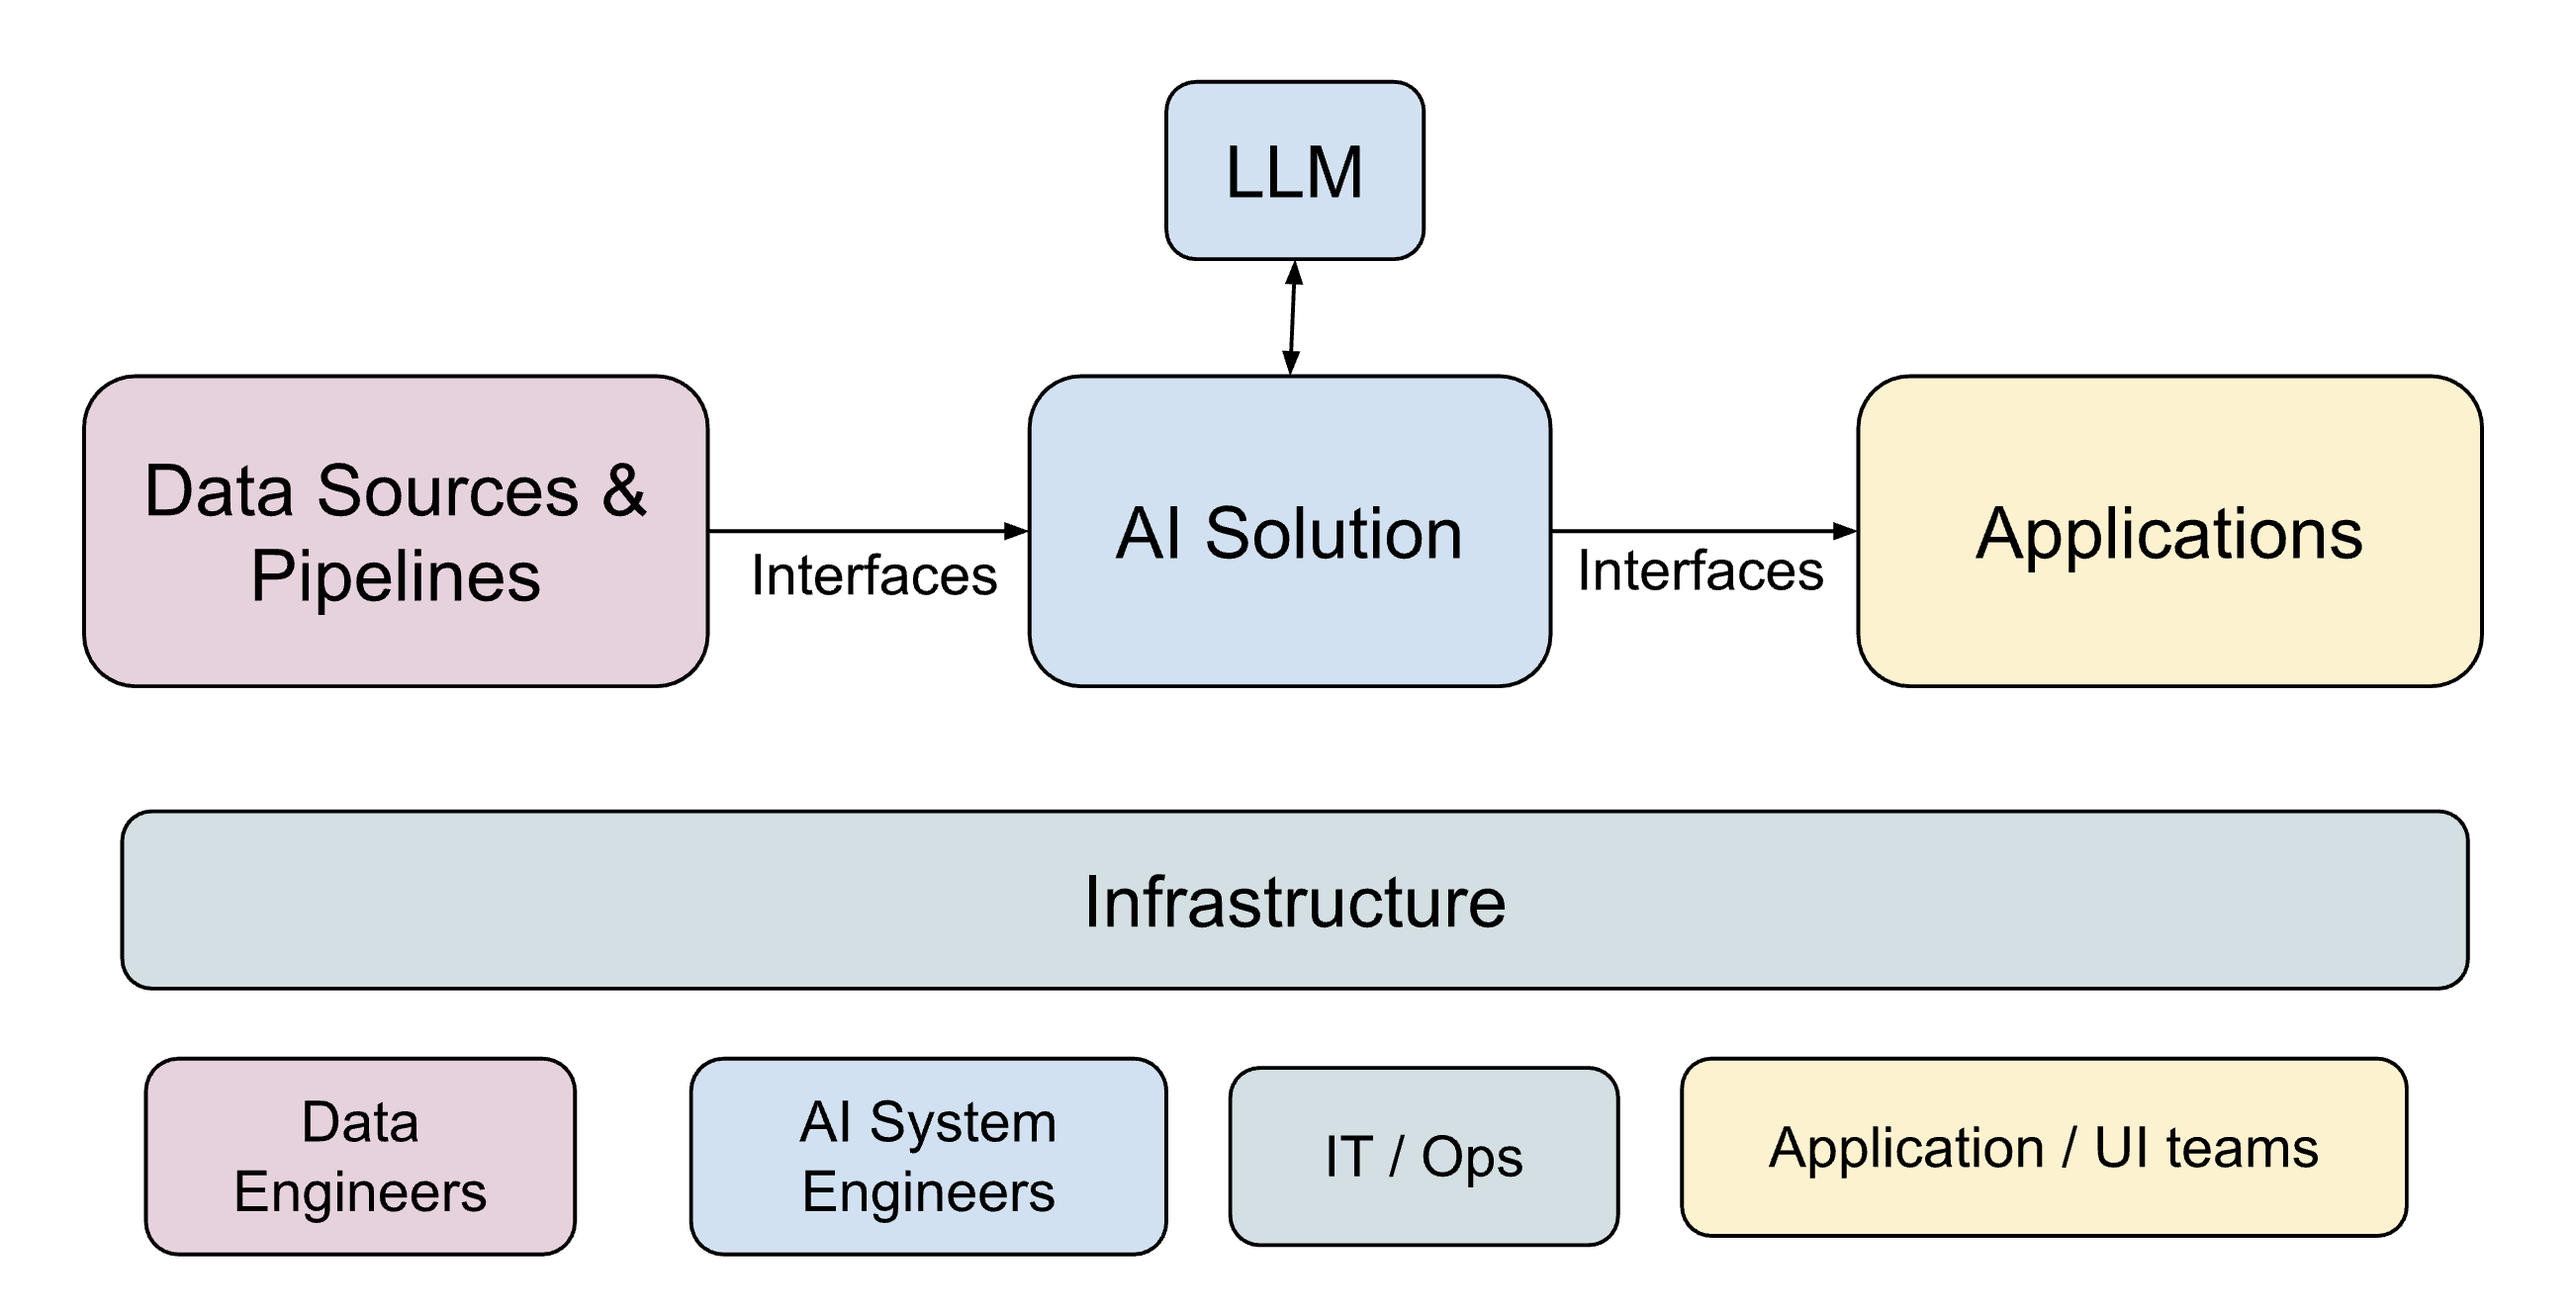
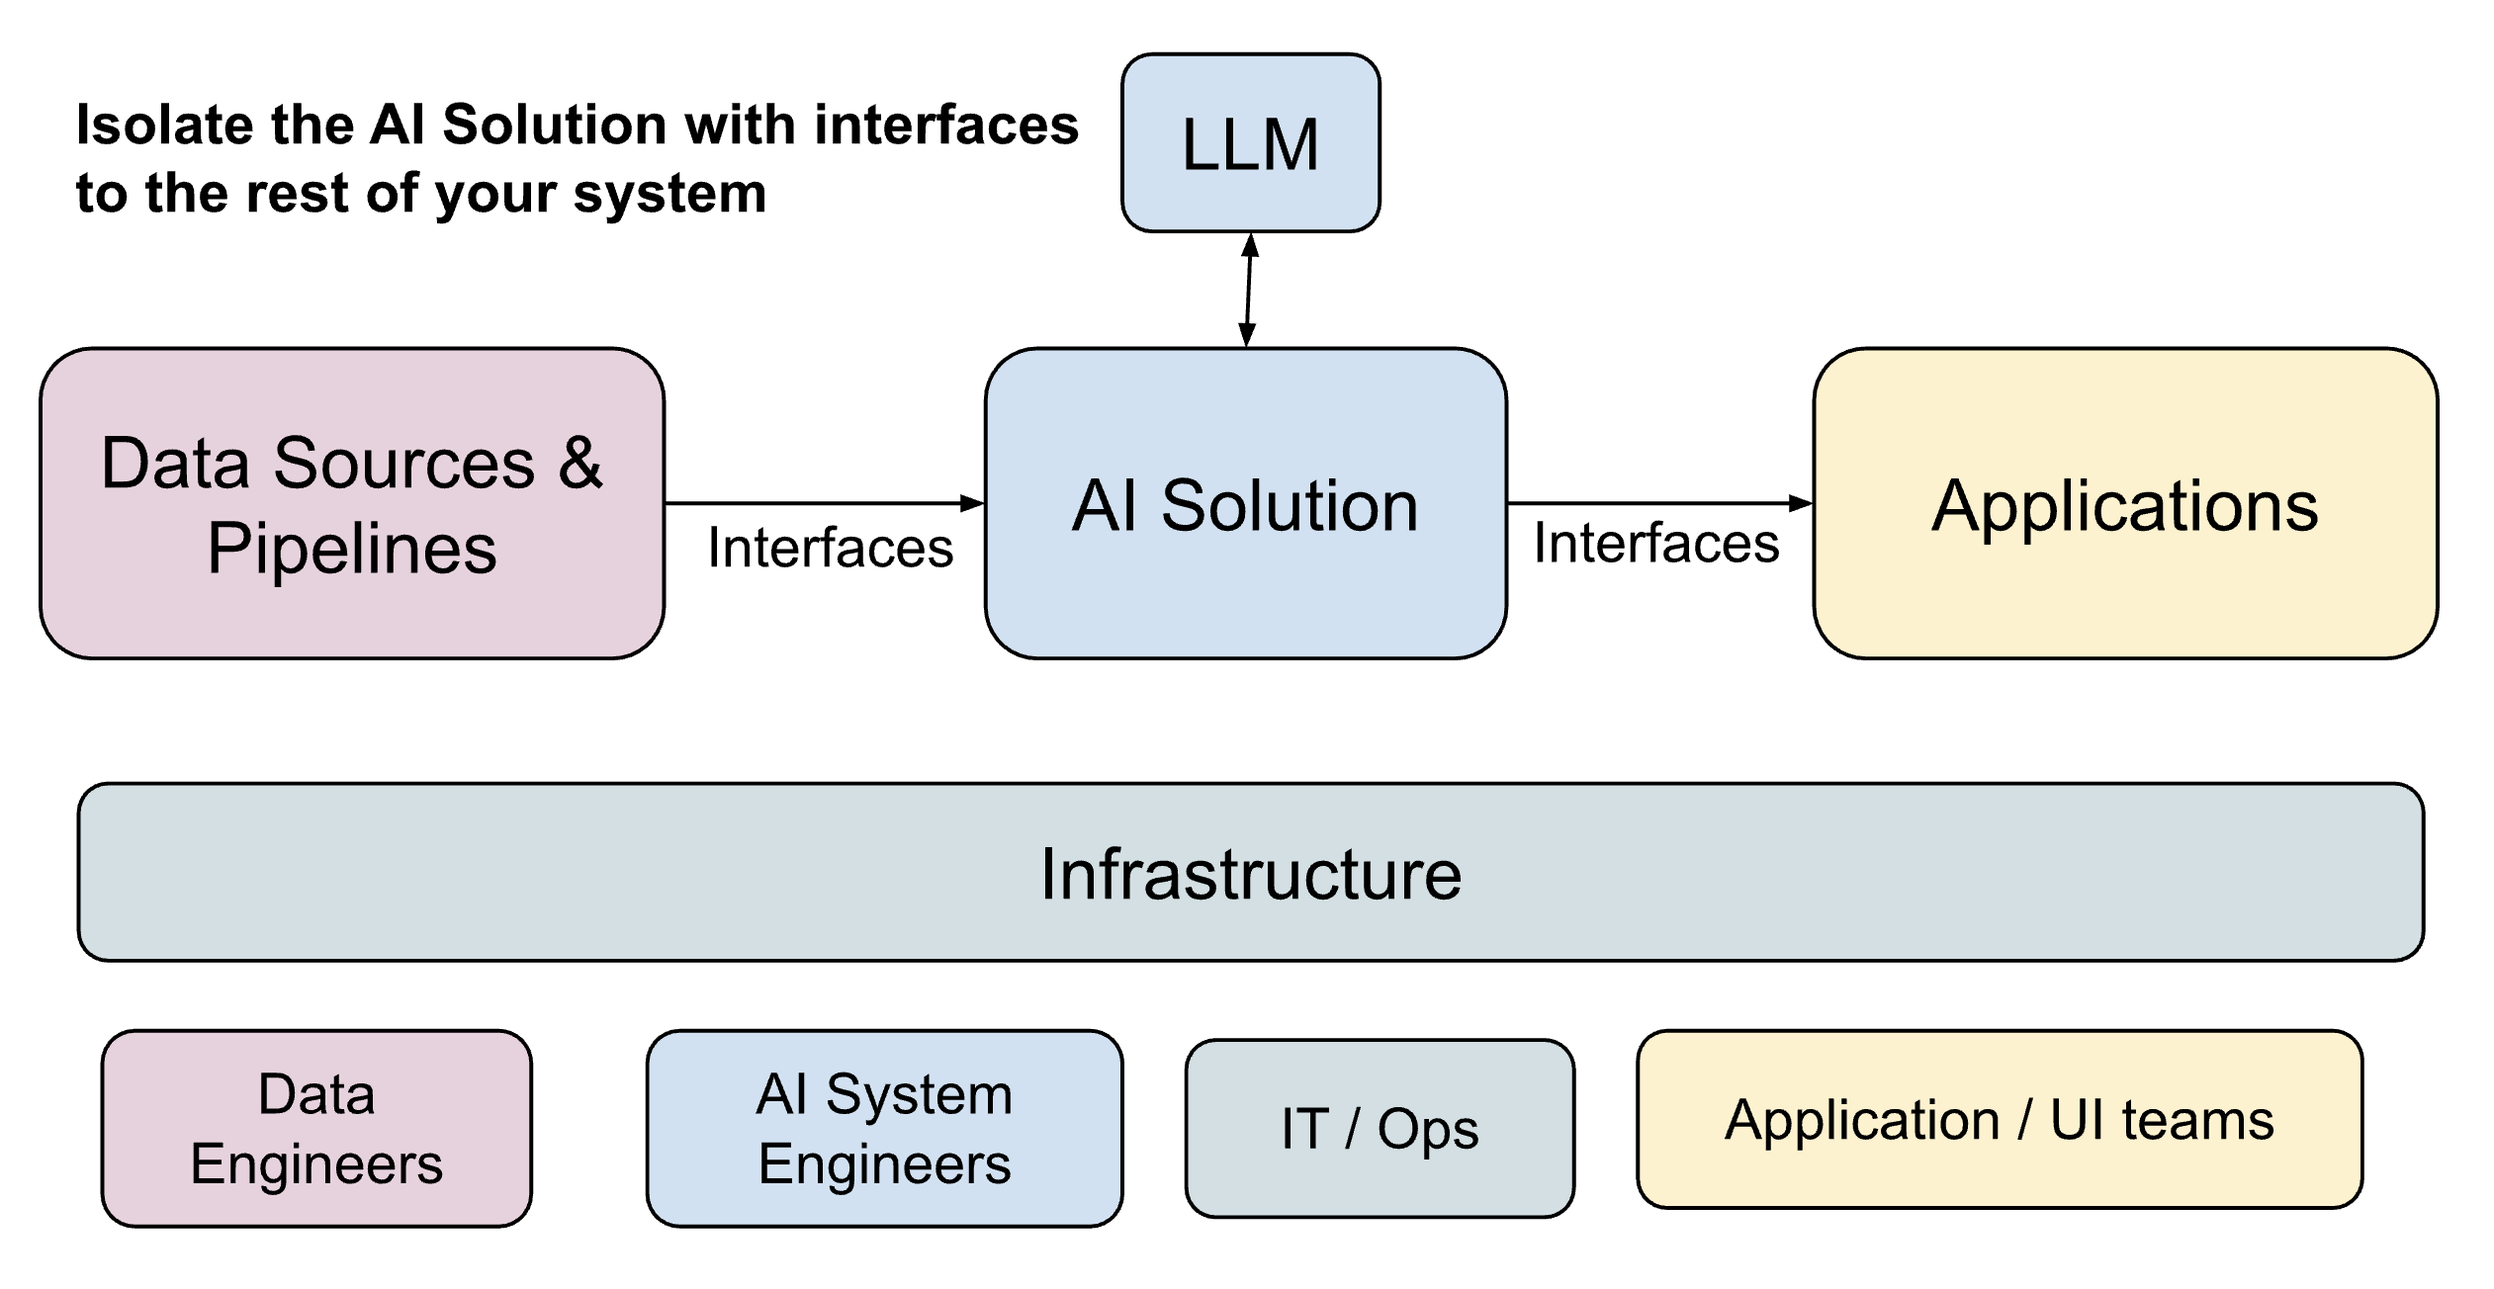
Updated images and copy

diff --git a/README.md b/README.md
@@ -72,7 +72,7 @@ I started this project based on [Prolego's](https://prolego.com) experiences hel
 
 ---
 
-<a id="quickstart"></a>
+
 # Quickstart
 Large language models (LLMs) allow rapid development of powerful solutions, but they often produce inconsistent and unpredictable results. You can quickly create a proof-of-concept that mostly works, but pinpointing successes, failures, improvements, and project completion can be challenging. This lack of transparency frustrates you and your leadership. Here's how to get your LLM project on track.
 
@@ -185,7 +185,7 @@ While this is a quick way to start and works for simple, low-risk tasks, it crea
 ### Create Interfaces with Your AI Solution
 A more effective approach is to isolate the AI components of your system—such as LLM interfaces, prompts, prompt orchestration agents, and tools—from the rest of the system's architecture, as illustrated in Figure PD2.
 
-![alt text](<images/Figure PD2.png>)
+![alt text](<images/FigureQ1.png>)
 *Figure PD2 - Logically isolate your AI solution from the rest of your system. The AI solution consists of components that optimize the LLM’s performance, such as prompts, data preprocessing, prompt orchestrations, and tools.*
 
 This design has several scaling advantages:
